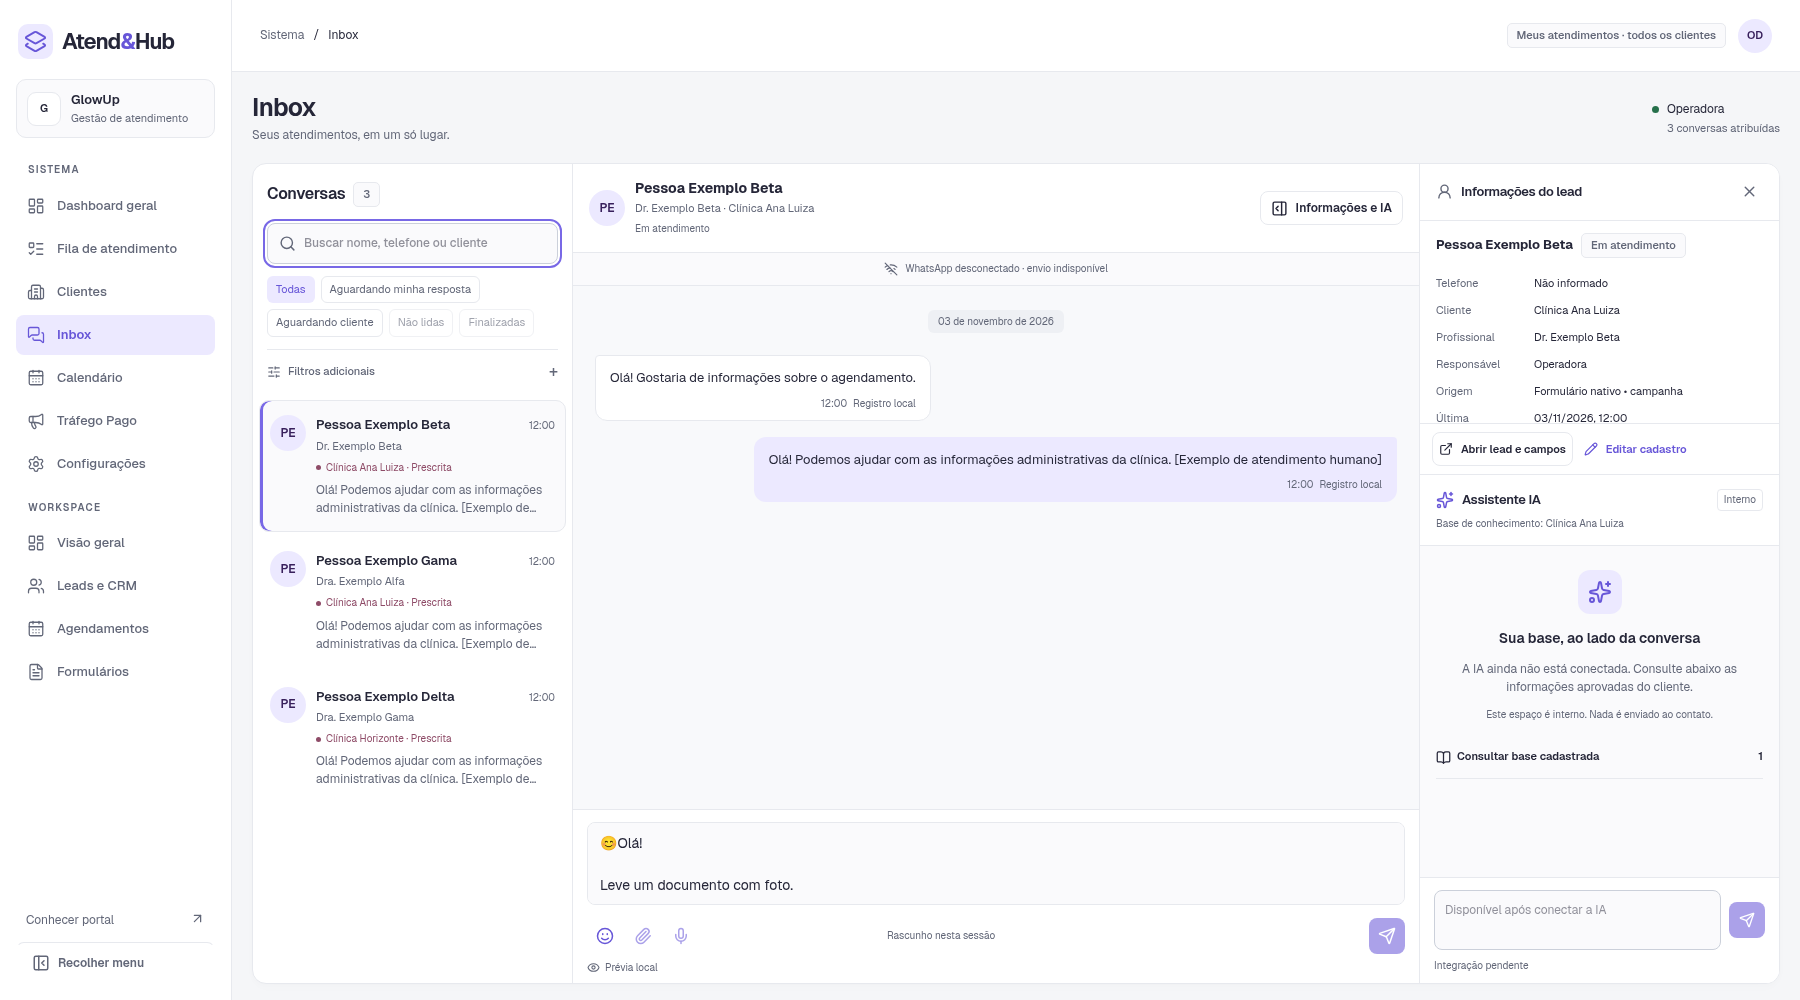
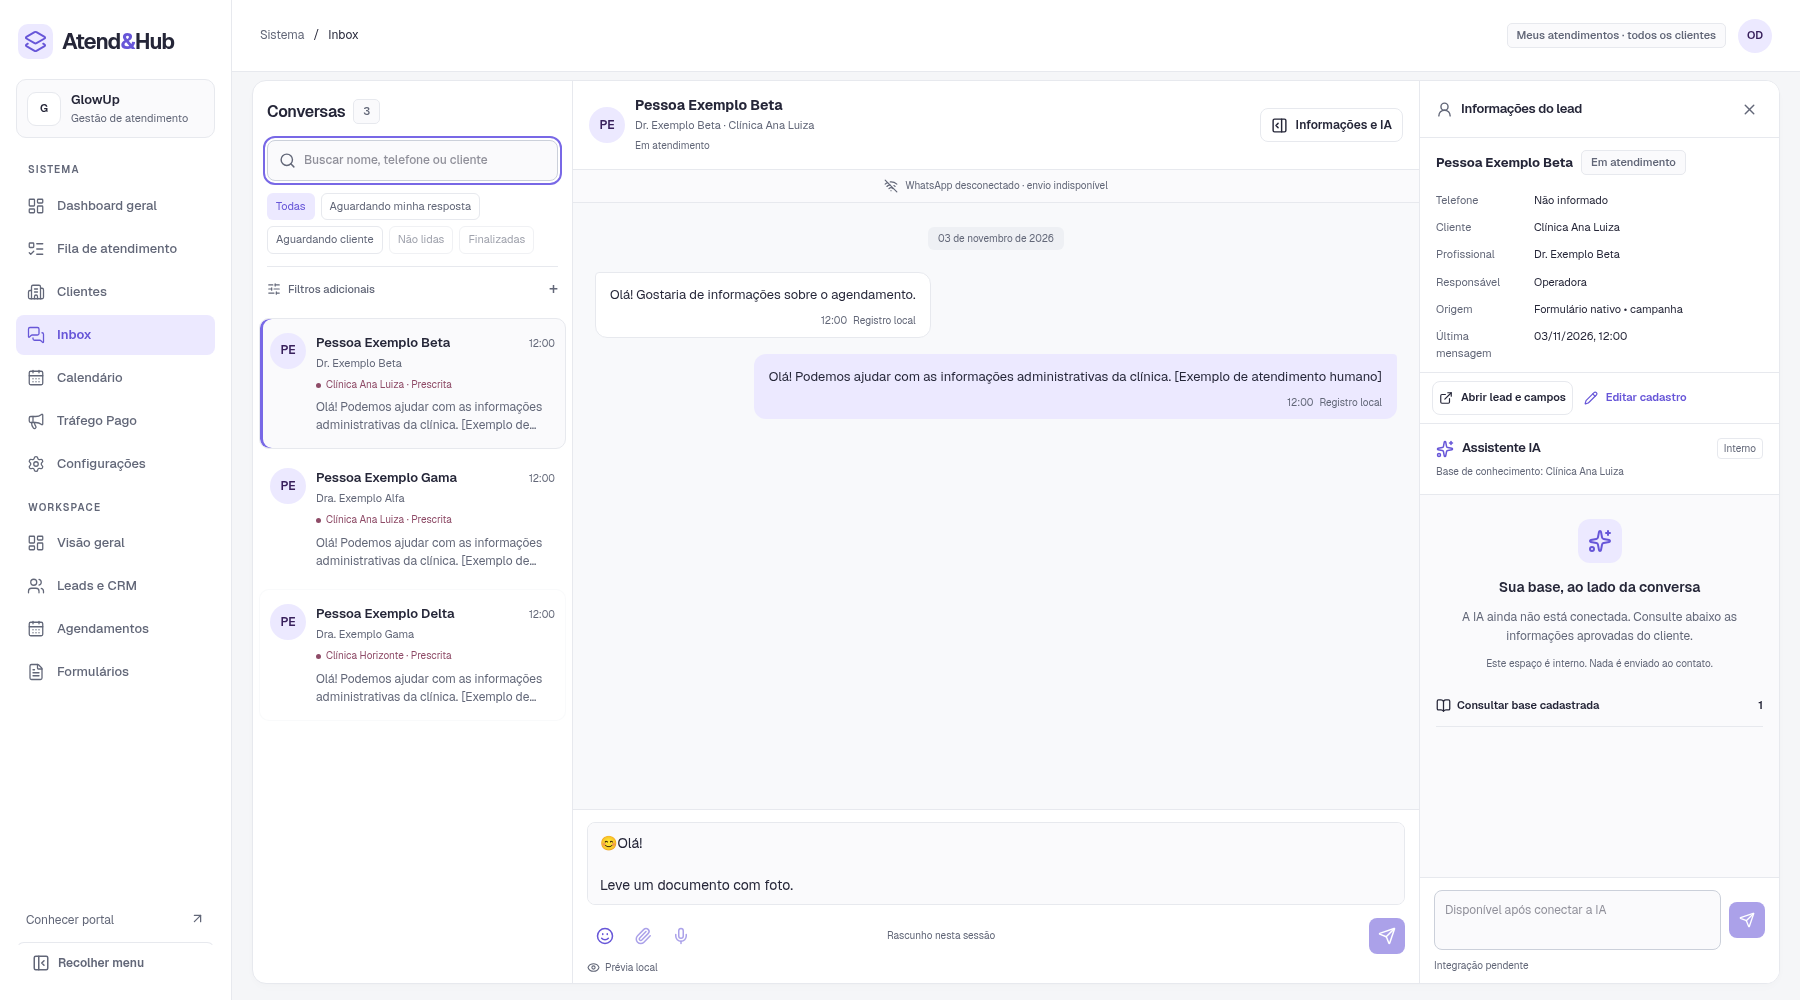
Remove inbox page heading to maximize conversation space

diff --git a/src/features/inbox/components/inbox.css b/src/features/inbox/components/inbox.css
@@ -1,6 +1,6 @@
 /* Inbox presentation shares tokens and controls with the application. */
 .workspace main:has(.inbox-page) {
-  padding: 20px;
+  padding: 8px 20px 16px;
   max-width: none;
 }
 .inbox-page {
@@ -10,33 +10,6 @@
   display: flex;
   flex-direction: column;
   gap: 18px;
-}
-.inbox-page-heading {
-  display: flex;
-  justify-content: space-between;
-  align-items: center;
-  gap: 16px;
-  flex-shrink: 0;
-}
-.inbox-page-heading h1 {
-  font-size: 25px;
-  letter-spacing: -0.7px;
-}
-.inbox-page-heading p {
-  font-size: 12px;
-  color: var(--text-secondary);
-  margin: 3px 0 0;
-}
-.inbox-attendant {
-  display: grid;
-  grid-template-columns: auto 1fr;
-  gap: 1px 8px;
-  align-items: center;
-  font-size: 12px;
-}
-.inbox-attendant small {
-  grid-column: 2;
-  font-size: 11px;
 }
 .inbox-layout {
   display: grid;
@@ -790,9 +763,6 @@
   }
 }
 @container (max-width:600px) {
-  .inbox-page-heading {
-    display: none;
-  }
   .inbox-layout {
     display: flex;
     border-radius: 10px;

diff --git a/src/features/inbox/components/inbox.tsx b/src/features/inbox/components/inbox.tsx
@@ -155,17 +155,7 @@ export function Inbox() {
   ) : null;
   return (
     <div className="inbox-page" ref={root}>
-      <div className="inbox-page-heading">
-        <div>
-          <h1>Inbox</h1>
-          <p>Seus atendimentos, em um só lugar.</p>
-        </div>
-        <span className="inbox-attendant">
-          <span className="status-dot" />
-          {attendant}
-          <small>{all.length} conversas atribuídas</small>
-        </span>
-      </div>
+      <h1 className="sr-only">Inbox</h1>
       <div
         className="inbox-layout"
         data-chat={mobileChat && !!conversation}

diff --git a/tests/e2e/redesign.spec.ts b/tests/e2e/redesign.spec.ts
@@ -59,7 +59,11 @@ test("telas principais mantêm contraste e largura em desktop, tablet e celular"
     await page.setViewportSize({ width: 1440, height: 1000 });
     await page.goto(path);
     await page.evaluate(() => document.fonts.ready);
-    await expect(page.getByRole("heading", { level: 1 })).toBeVisible();
+    if (name === "inbox")
+      await expect(
+        page.getByRole("heading", { level: 1, name: "Inbox" }),
+      ).toHaveClass("sr-only");
+    else await expect(page.getByRole("heading", { level: 1 })).toBeVisible();
     expect(
       (
         await new AxeBuilder({ page })

diff --git a/docs/design/inbox.md b/docs/design/inbox.md
@@ -40,3 +40,7 @@ A base atual é por cliente; segmentação de fontes por profissional requer def
 37 testes unitários aprovados; suite completa de 18 E2E aprovada. Após os refinamentos visuais finais, 8 testes dos fluxos afetados foram executados novamente e passaram. Lint, TypeScript e build aprovados. Axe sem violações WCAG A/AA detectadas nos cenários exercitados. Verificados desktop de 1800 px, notebook de 1024 px, celular de 390 px, redução de altura para 500 px, foco de drawer/Escape, isolamento de bases, inserção sem envio e rascunho após navegação ao cadastro. As capturas foram revisadas visualmente e estão em `docs/runbooks/screenshots/inbox/`.
 
 Os testes usam Chromium. Teclados virtuais em aparelhos físicos, Safari/Firefox, provedores de WhatsApp e modelos de IA reais não foram exercitados. Dados criados pelos testes são efêmeros e não alteram as fixtures do aplicativo.
+
+## Aproveitamento vertical
+
+O cabeçalho visual “Inbox / Seus atendimentos” e o resumo da operadora foram removidos exclusivamente desta página. O título h1 permanece acessível a leitores de tela, sem ocupar espaço visual. Os painéis começam 8 px abaixo da barra superior. Ajuste validado por lint, TypeScript, build e dois E2E do Inbox (desktop/mobile, foco, rascunhos e acessibilidade); captura desktop atualizada.
